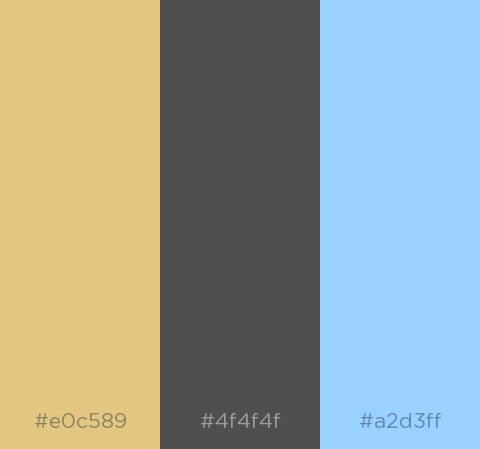
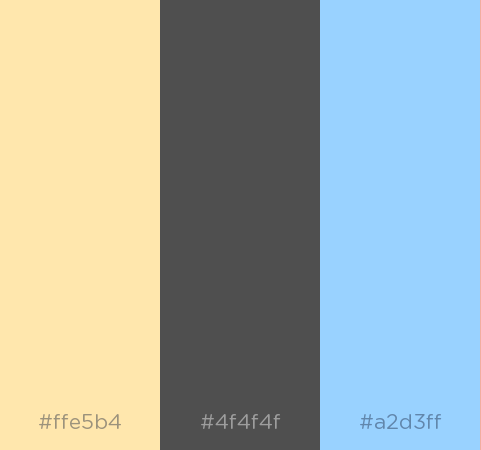
peach

diff --git a/lesson3/css/small.css b/lesson3/css/small.css
@@ -32,7 +32,7 @@ nav {
 }
 
 nav a {
-    color: #e0c589;
+    color: #ffe5b4;
     font-size: 1.2em;
     line-height: 1.5;
     text-decoration: none;
@@ -41,7 +41,7 @@ nav a {
 
 
 nav a:link {
-    color: #e0c589;
+    color: #ffe5b4;
 }
 
 nav a:visited {
@@ -49,7 +49,7 @@ nav a:visited {
 }
 
 nav a:hover {
-    background-color: #e0c589;
+    background-color: #ffe5b4;
     color: #4f4f4f;
 }
 
@@ -62,7 +62,7 @@ main {
     grid-template-columns: 1fr;
     grid-column-gap: 20px;
     padding: 10px;
-    background-color: #e0c589;
+    background-color: #ffe5b4;
 }
 
 main section {
